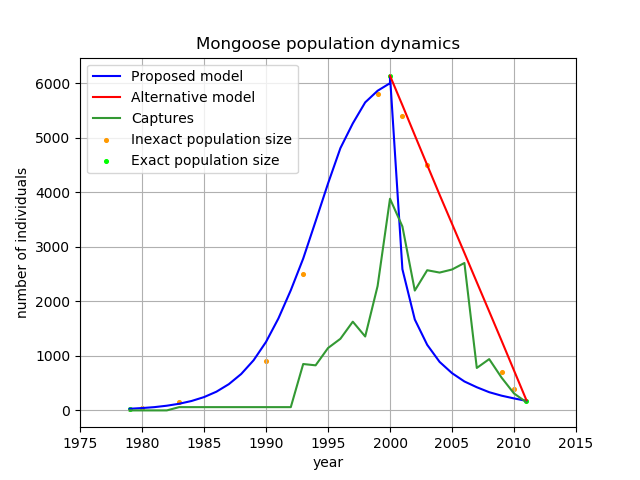
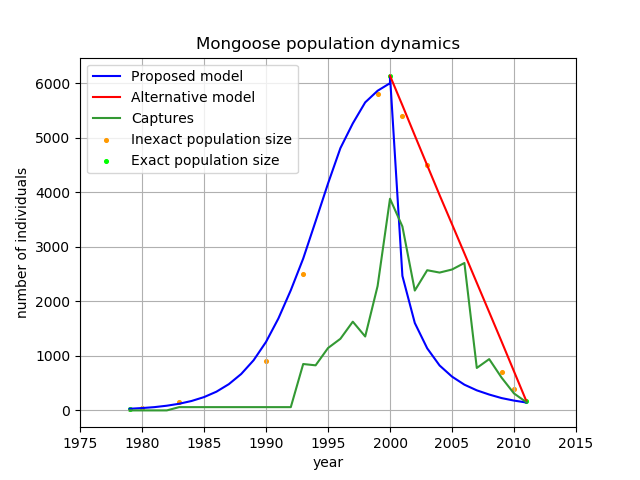
Save

diff --git a/src/main.py b/src/main.py
@@ -4,8 +4,8 @@ from src import exporting
 
 def main():
     model1 = MongooseModel(30, 0.427, 0.001, 6300, 1979, 2000)
-    model2 = MongooseModel(6141, 0.427, 0.6, 6300, 2000, 2011)
-    model3 = AltMongooseModel(6141, 0.01, 552.9, 6300, 2000, 2011)
+    model2 = MongooseModel(6141, 0.427, 0.62, 6300, 2000, 2011)
+    model3 = AltMongooseModel(6141, 0.01, 554.6, 6300, 2000, 2011)
     exporting.save_complex_model_plot(model1, model2, model3)
 
 
